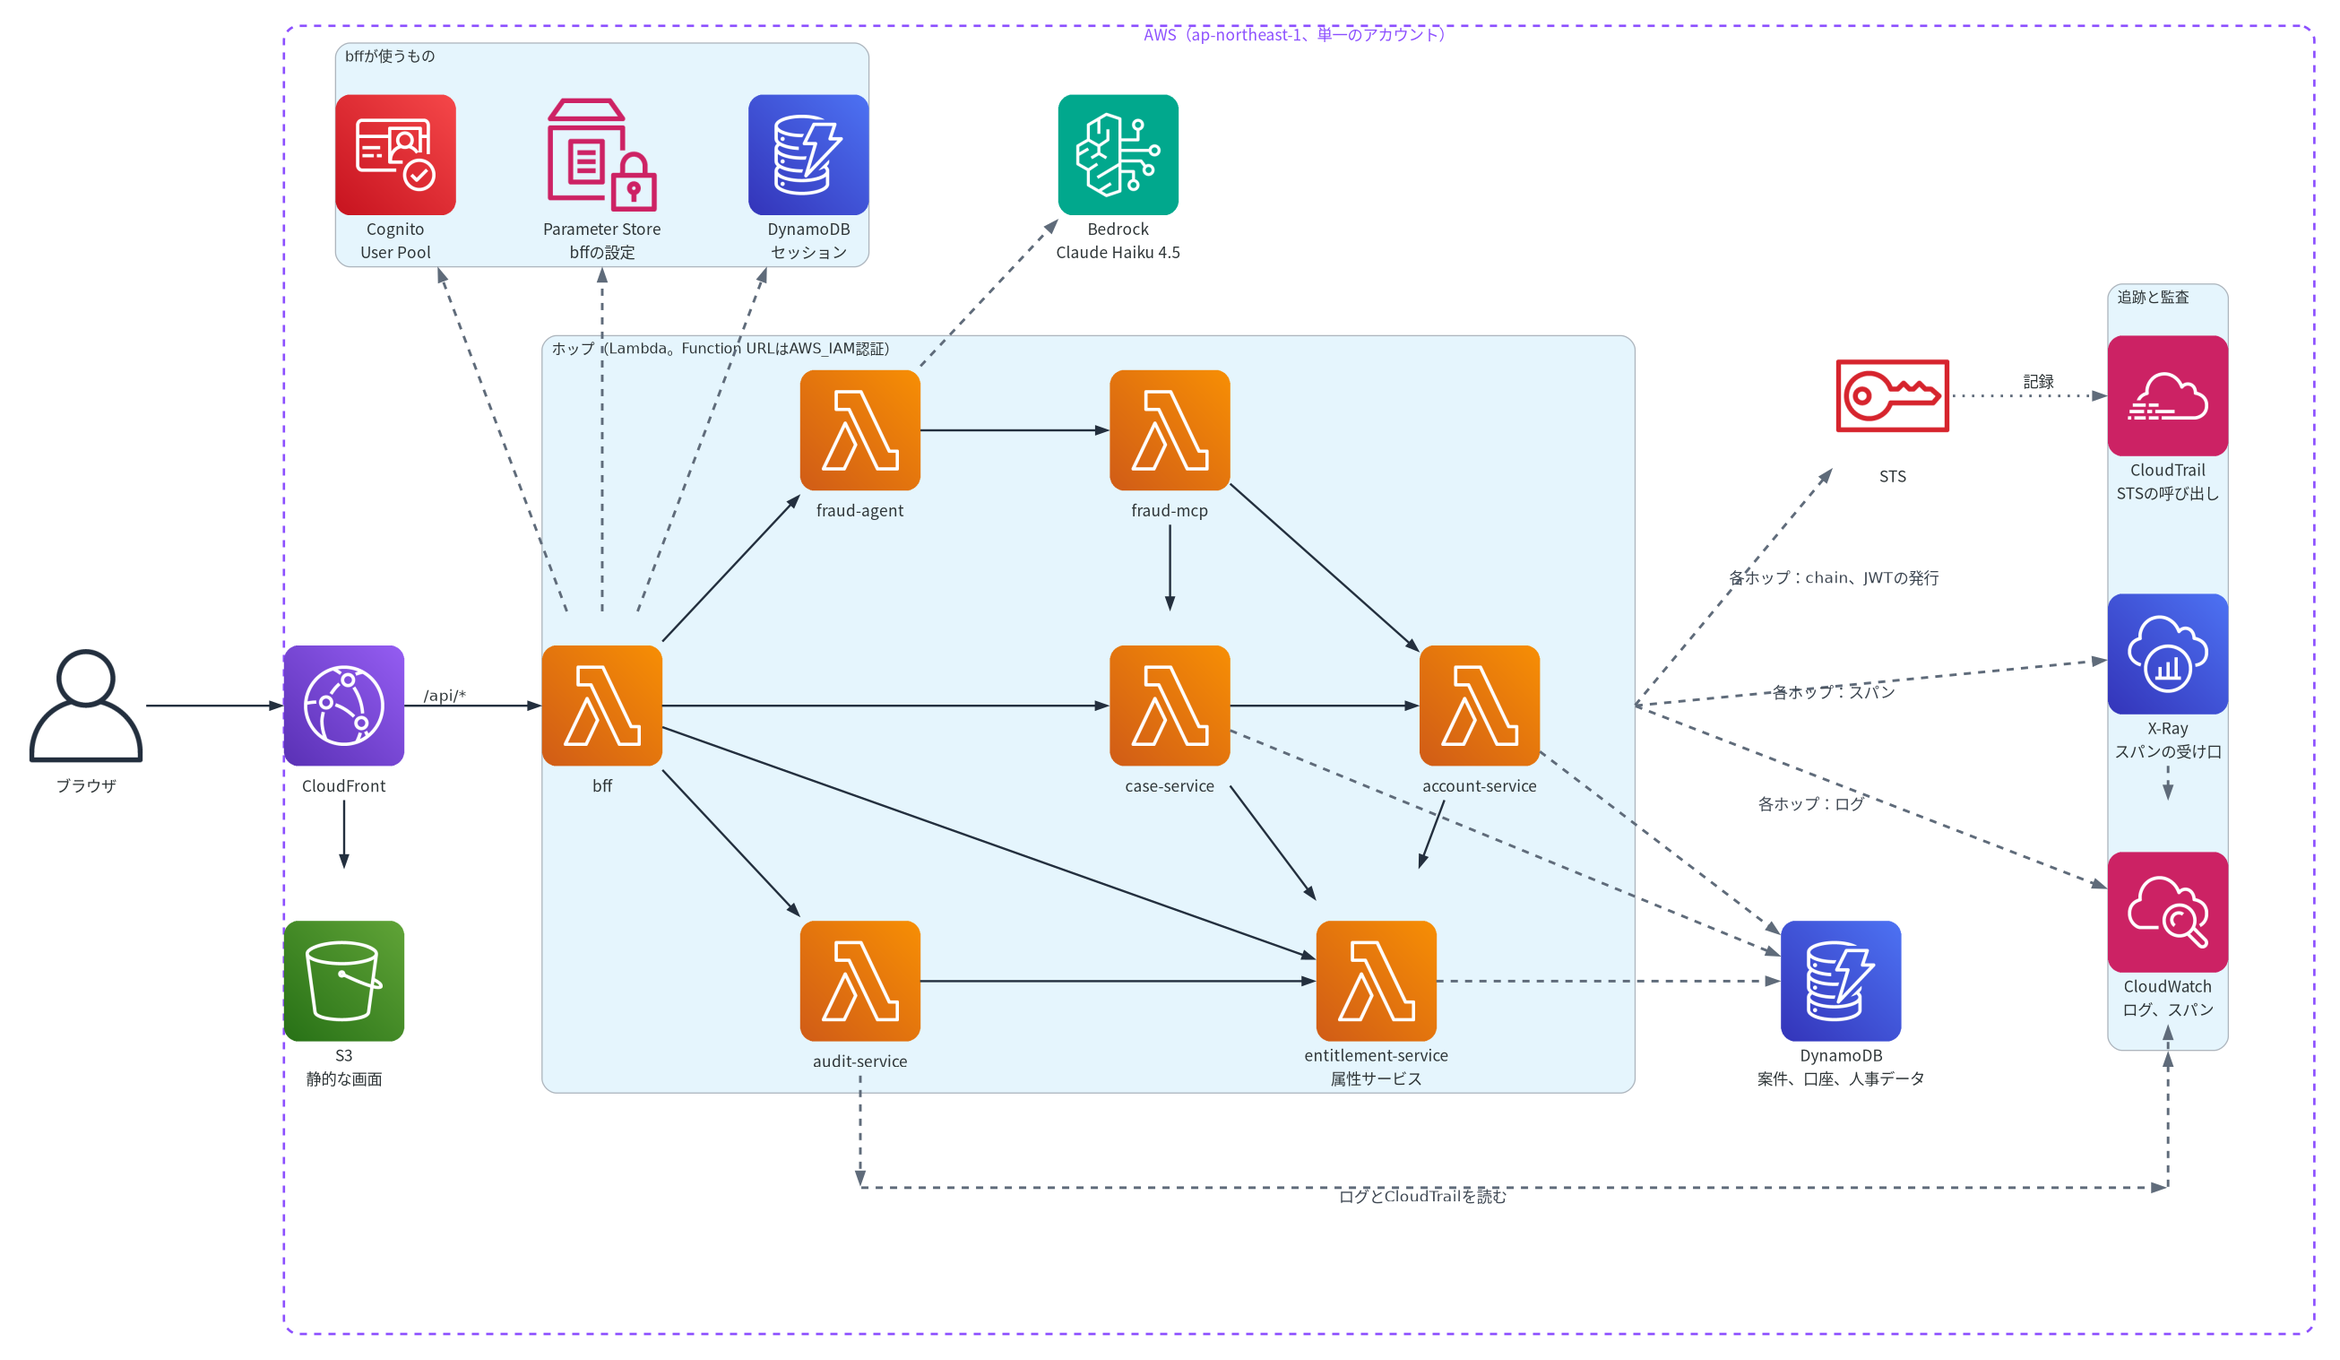
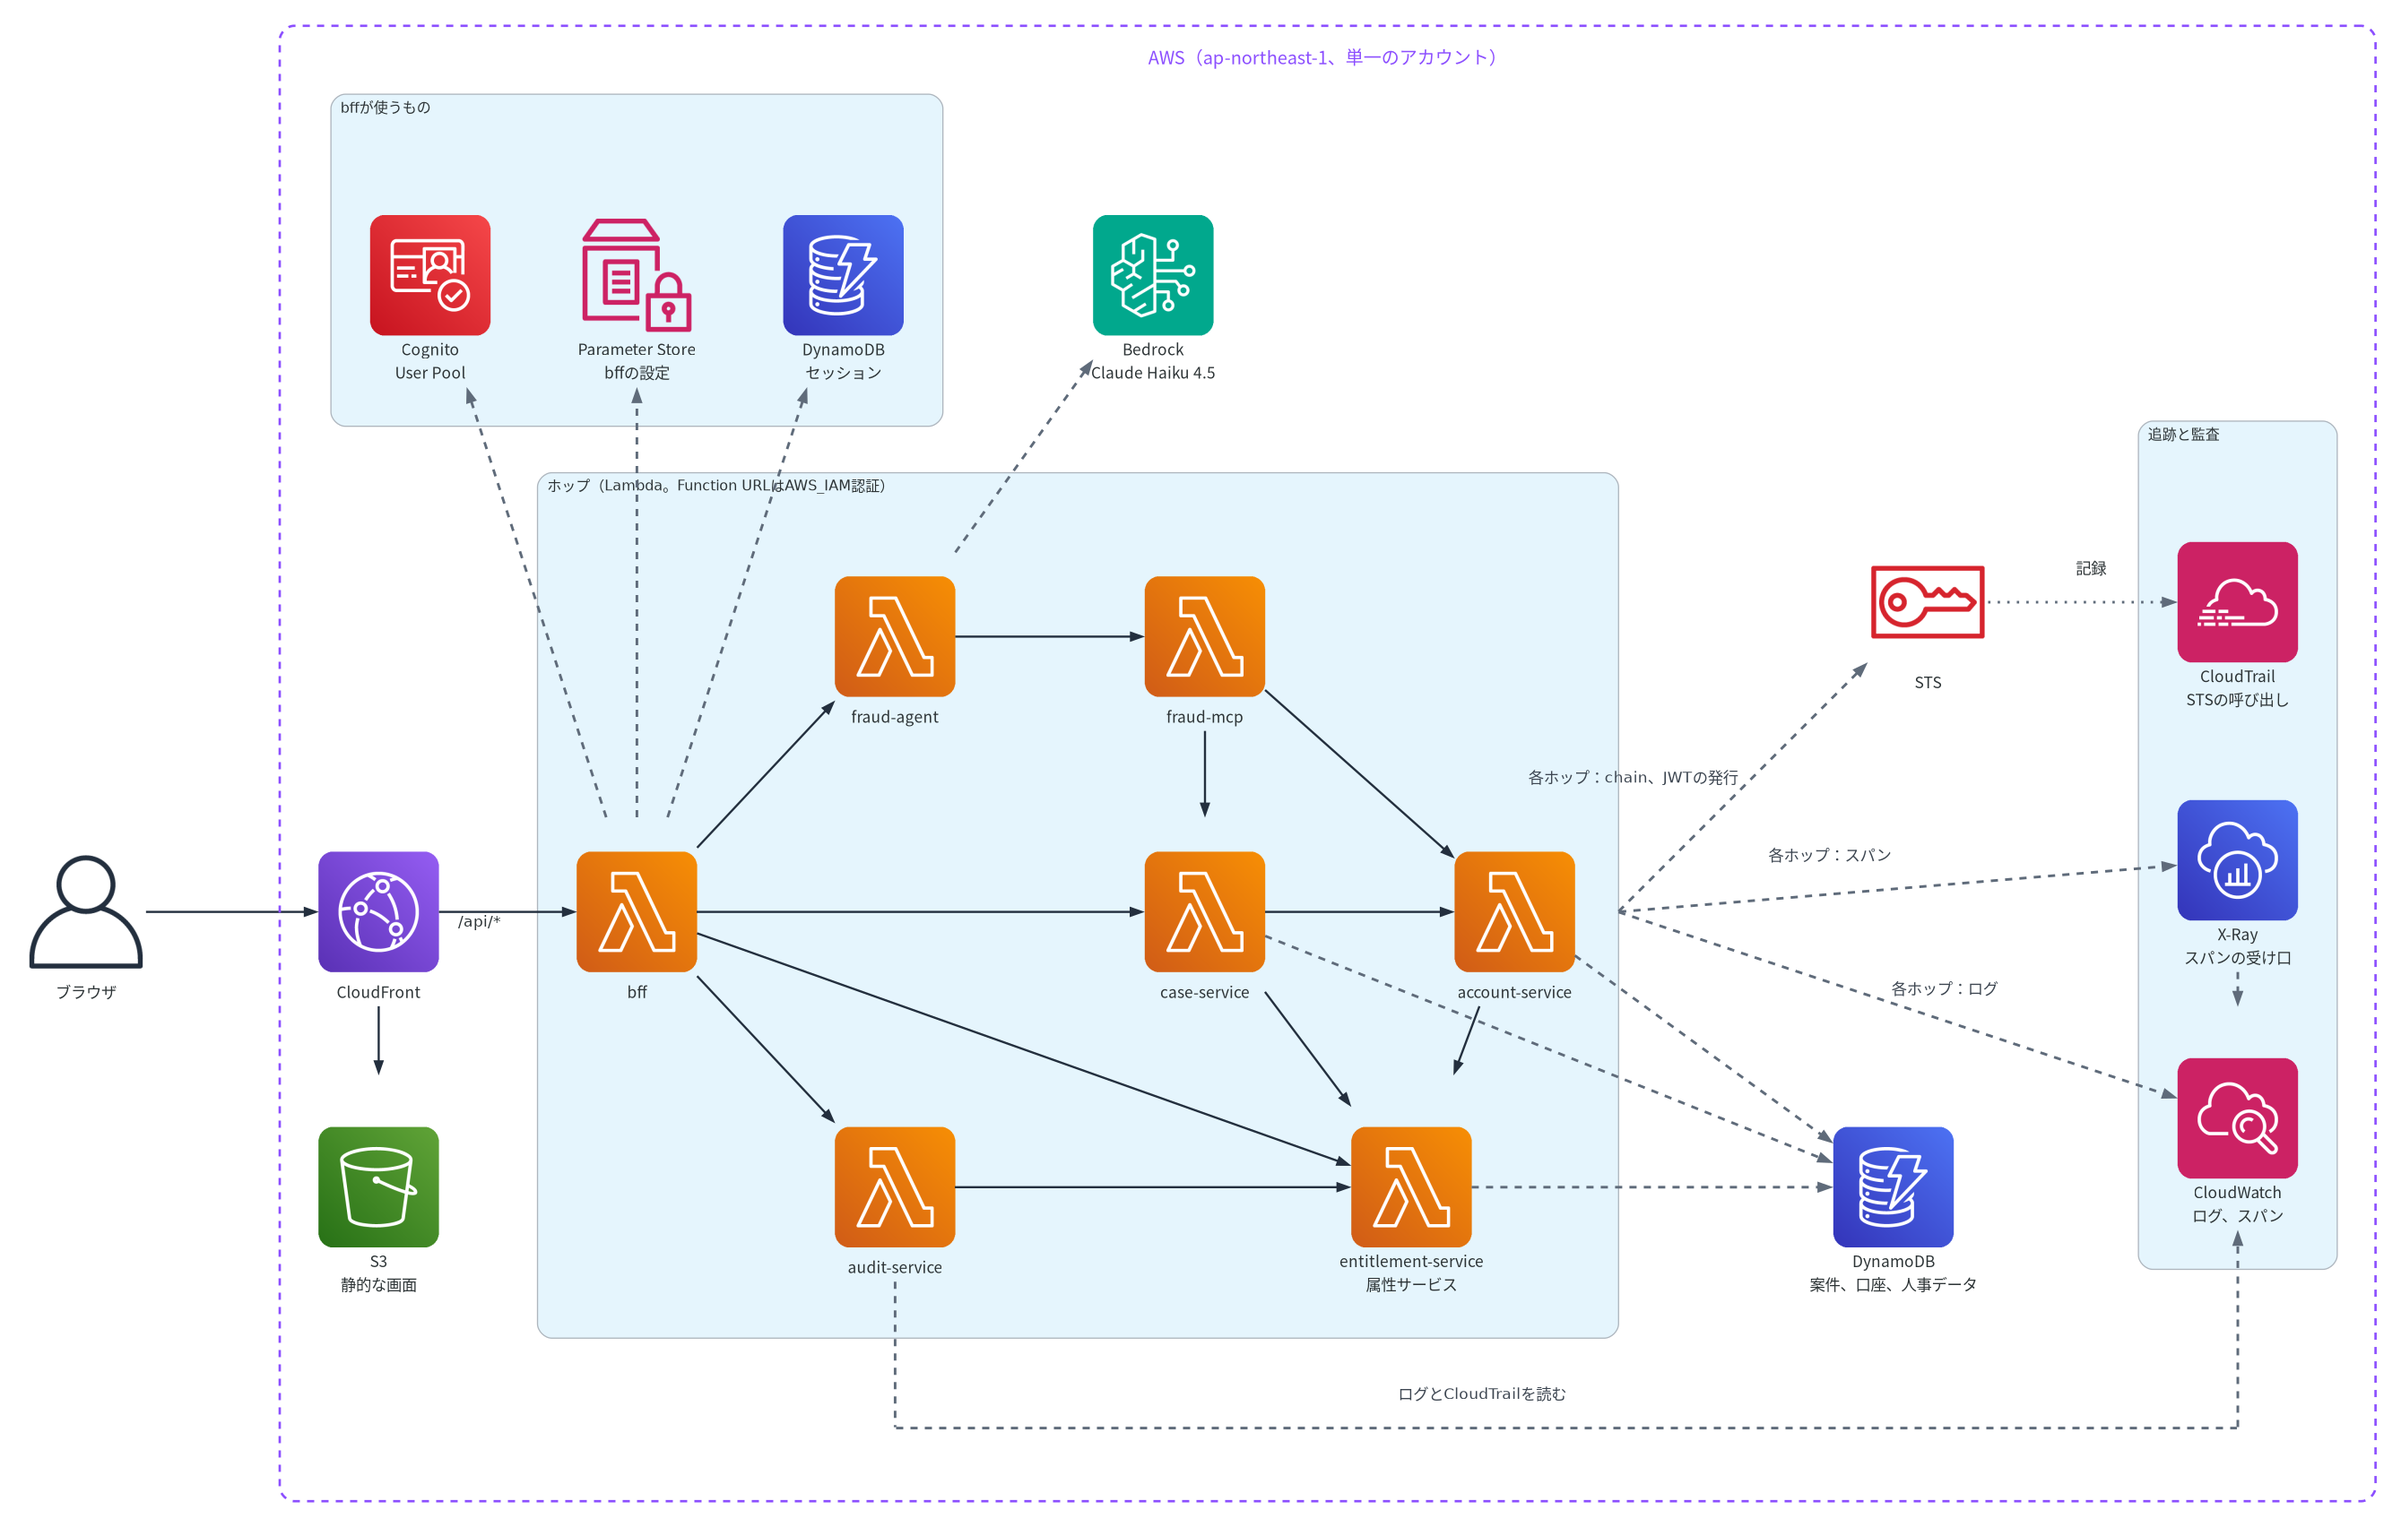
Architecture image: real margins inside every frame
neato ignores cluster margins, so invisible corner points pad each frame
and the AWS boundary is sized from its contents. Lift the top row so the
frames do not overlap, drop stray arrowheads on the bottom route, and keep
labels off their lines.

diff --git a/docs/diagrams/architecture.py b/docs/diagrams/architecture.py
@@ -5,7 +5,8 @@
 
 線を直線にして交差を減らすため、Graphvizのneatoで、各ノードを座標（インチ）で固定して置く。
 neatoは入れ子の枠を描かないので、まとまり（ホップ、bffが使うもの、追跡と監査）は最上位の枠にし、
-AWSのアカウントの境界は、背景に置いた塗りのない四角で表す。
+AWSのアカウントの境界は、背景に置いた塗りのない四角で表す。neatoは枠の余白（margin）も無視するので、
+枠の隅の外側に見えない点を置いて、アイコンと枠の間の余白を取る。
 実線はホップの呼び出し、点線はAWSのサービスの呼び出し。各ホップに共通する呼び出し（STS、スパン、ログ）は、ホップの枠の右端から1本で描く。
 """
 
@@ -36,16 +37,49 @@ edge_attr = {"fontname": FONT, "fontsize": "13", "color": "#232f3e", "penwidth":
 GRAY = "#5f6b7a"
 
 # 行（y）の位置。単位はインチ
-TOP, AGENT, MAIN, LOW, BOTTOM = 8.8, 5.6, 2.4, -0.8, -3.2
+TOP, AGENT, MAIN, LOW, BOTTOM = 9.8, 5.6, 2.4, -0.8, -3.6
+# 枠とアイコン（ラベルを含む）の間の余白と、枠の見出しの高さ
+MARGIN, TITLE = 0.45, 0.35
+
+placed: list[tuple[float, float, float, float]] = []  # 置いたノードの範囲（左、下、右、上）
 
 
 def at(x: float, y: float) -> dict:
     return {"pos": f"{x},{y}!", "pin": "true"}
 
 
+def place(cls, label: str, x: float, y: float) -> Node:
+    """アイコンを座標に置き、ラベルを含む範囲を記録する。"""
+    lines = label.split("\n")
+    # 13ポイントの文字の幅の目安：全角0.19インチ、半角0.1インチ
+    text = max(sum(0.19 if ord(c) > 0x2000 else 0.1 for c in line) for line in lines)
+    w = max(1.4, text)
+    h = Node._height + 0.4 * (len(lines) - 1)
+    placed.append((x - w / 2, y - h / 2, x + w / 2, y + h / 2))
+    return cls(label, **at(x, y))
+
+
 def waypoint(x: float, y: float) -> Node:
     """線を折り曲げるための見えない点。"""
     return Node("", shape="point", width="0.01", style="invis", **at(x, y))
+
+
+def bounds(items: list[tuple[float, float, float, float]]) -> tuple[float, float, float, float]:
+    return (min(i[0] for i in items), min(i[1] for i in items), max(i[2] for i in items), max(i[3] for i in items))
+
+
+def pad(start: int) -> tuple[float, float, float, float]:
+    """この枠に入れたノード（placedのstart以降）の外側に、余白の分だけ見えない点を置く。枠の範囲を返す。"""
+    left, bottom, right, top = bounds(placed[start:])
+    left, bottom, right, top = left - MARGIN, bottom - MARGIN, right + MARGIN, top + MARGIN + TITLE
+    waypoint(left, bottom), waypoint(right, top)
+    placed.append((left, bottom, right, top))
+    return left, bottom, right, top
+
+
+def above(label: str) -> str:
+    """水平に近い線のラベルを、線に重ならないよう少し上にずらす（下に空行を足す）。"""
+    return label + "\n "
 
 
 def aws_call(label: str = "", **kw) -> Edge:
@@ -54,37 +88,48 @@ def aws_call(label: str = "", **kw) -> Edge:
 
 with Diagram("", filename=str(OUT), outformat="png", show=False,
              graph_attr=graph_attr, node_attr=node_attr, edge_attr=edge_attr):
-    # AWSのアカウントの境界（背景。最初に置いて、ほかのノードの下に描く）
-    Node("AWS（ap-northeast-1、単一のアカウント）", shape="box", style="rounded,dashed", color="#8c4fff", penwidth="2",
-         fontcolor="#8c4fff", labelloc="t", width="23.6", height="15.2", fixedsize="true", **at(13.5, 2.7))
-
-    browser = User("ブラウザ", **at(-0.6, MAIN))
-    cdn = CloudFront("CloudFront", **at(2.4, MAIN))
-    static = SimpleStorageServiceS3("S3\n静的な画面", **at(2.4, LOW))
-    bedrock = Bedrock("Bedrock\nClaude Haiku 4.5", **at(11.4, TOP))
-    sts = IAMAWSSts("STS", **at(20.4, 6.0))
-    ddb = Dynamodb("DynamoDB\n案件、口座、人事データ", **at(19.8, LOW))
+    browser = User("ブラウザ", **at(-1.0, MAIN))
+    inner = len(placed)
+    cdn = place(CloudFront, "CloudFront", 2.4, MAIN)
+    static = place(SimpleStorageServiceS3, "S3\n静的な画面", 2.4, LOW)
+    bedrock = place(Bedrock, "Bedrock\nClaude Haiku 4.5", 11.4, TOP)
+    sts = place(IAMAWSSts, "STS", 20.4, 6.0)
+    ddb = place(Dynamodb, "DynamoDB\n案件、口座、人事データ", 20.0, LOW)
 
     with Cluster("bffが使うもの"):
-        cognito = Cognito("Cognito\nUser Pool", **at(3.0, TOP))
-        ssm = SystemsManagerParameterStore("Parameter Store\nbffの設定", **at(5.4, TOP))
-        sessions = Dynamodb("DynamoDB\nセッション", **at(7.8, TOP))
+        start = len(placed)
+        cognito = place(Cognito, "Cognito\nUser Pool", 3.0, TOP)
+        ssm = place(SystemsManagerParameterStore, "Parameter Store\nbffの設定", 5.4, TOP)
+        sessions = place(Dynamodb, "DynamoDB\nセッション", 7.8, TOP)
+        pad(start)
 
     with Cluster("ホップ（Lambda。Function URLはAWS_IAM認証）"):
-        bff = Lambda("bff", **at(5.4, MAIN))
-        agent = Lambda("fraud-agent", **at(8.4, AGENT))
-        mcp = Lambda("fraud-mcp", **at(12.0, AGENT))
-        case = Lambda("case-service", **at(12.0, MAIN))
-        account = Lambda("account-service", **at(15.6, MAIN))
-        audit = Lambda("audit-service", **at(8.4, LOW))
-        ent = Lambda("entitlement-service\n属性サービス", **at(14.4, LOW))
-        hops_edge = waypoint(17.4, MAIN)
+        start = len(placed)
+        bff = place(Lambda, "bff", 5.4, MAIN)
+        agent = place(Lambda, "fraud-agent", 8.4, AGENT)
+        mcp = place(Lambda, "fraud-mcp", 12.0, AGENT)
+        case = place(Lambda, "case-service", 12.0, MAIN)
+        account = place(Lambda, "account-service", 15.6, MAIN)
+        audit = place(Lambda, "audit-service", 8.4, LOW)
+        ent = place(Lambda, "entitlement-service\n属性サービス", 14.4, LOW)
+        _, _, hops_right, _ = pad(start)
+        hops_edge = waypoint(hops_right, MAIN)  # 各ホップに共通する線の出どころ（枠の右端）
 
     with Cluster("追跡と監査"):
-        trail = Cloudtrail("CloudTrail\nSTSの呼び出し", **at(23.6, 6.0))
-        xray = XRay("X-Ray\nスパンの受け口", **at(23.6, 3.0))
-        logs = Cloudwatch("CloudWatch\nログ、スパン", **at(23.6, 0.0))
-        audit_in = waypoint(23.6, -1.6)
+        start = len(placed)
+        trail = place(Cloudtrail, "CloudTrail\nSTSの呼び出し", 24.0, 6.0)
+        xray = place(XRay, "X-Ray\nスパンの受け口", 24.0, 3.0)
+        logs = place(Cloudwatch, "CloudWatch\nログ、スパン", 24.0, 0.0)
+        _, obs_bottom, _, _ = pad(start)
+        audit_in = waypoint(24.0, obs_bottom)  # audit-serviceの読む線の入り口（枠の下端）
+
+    left, bottom, right, top = bounds(placed[inner:])
+    left, bottom, right, top = left - MARGIN, min(bottom, BOTTOM) - MARGIN - 0.4, right + MARGIN, top + MARGIN + TITLE
+    # AWSのアカウントの境界。塗りのない四角なので、最後に置いて上に重ねても、下のアイコンは隠れない
+    # 見出しが枠の線に重ならないよう、前に空行を入れて1行下げる
+    Node("\nAWS（ap-northeast-1、単一のアカウント）", shape="box", style="rounded,dashed", color="#8c4fff", penwidth="2",
+         fontcolor="#8c4fff", fontsize="15", labelloc="t", fixedsize="true", width=str(right - left), height=str(top - bottom),
+         **at((left + right) / 2, (top + bottom) / 2))
 
     # 入口
     browser >> cdn
@@ -110,14 +155,15 @@ with Diagram("", filename=str(OUT), outformat="png", show=False,
     for hop in (case, account, ent):
         hop >> aws_call() >> ddb
     hops_edge >> aws_call("各ホップ：chain、JWTの発行") >> sts
-    hops_edge >> aws_call("各ホップ：スパン") >> xray
+    hops_edge >> aws_call(above("各ホップ：スパン")) >> xray
     hops_edge >> aws_call("各ホップ：ログ") >> logs
     xray >> aws_call() >> logs
-    sts >> Edge(color=GRAY, style="dotted", penwidth="2.2", label="記録") >> trail
+    sts >> Edge(color=GRAY, style="dotted", penwidth="2.2", label=above("記録")) >> trail
 
     # audit-serviceは、ログとCloudTrailを読む。図の下を回して、ほかの線と交差させない
-    turn1, turn2 = waypoint(8.4, BOTTOM), waypoint(23.6, BOTTOM)
-    audit >> aws_call(dir="none") >> turn1
-    turn1 >> aws_call("ログとCloudTrailを読む", dir="none") >> turn2
-    turn2 >> aws_call(dir="none") >> audit_in
+    turn1, turn2 = waypoint(8.4, BOTTOM), waypoint(24.0, BOTTOM)
+    # 途中の区間は向きを持たない「-」でつなぎ、矢じりは最後の区間だけに付ける
+    audit - aws_call() - turn1
+    turn1 - aws_call(above("ログとCloudTrailを読む")) - turn2
+    turn2 - aws_call() - audit_in
     audit_in >> aws_call() >> logs
